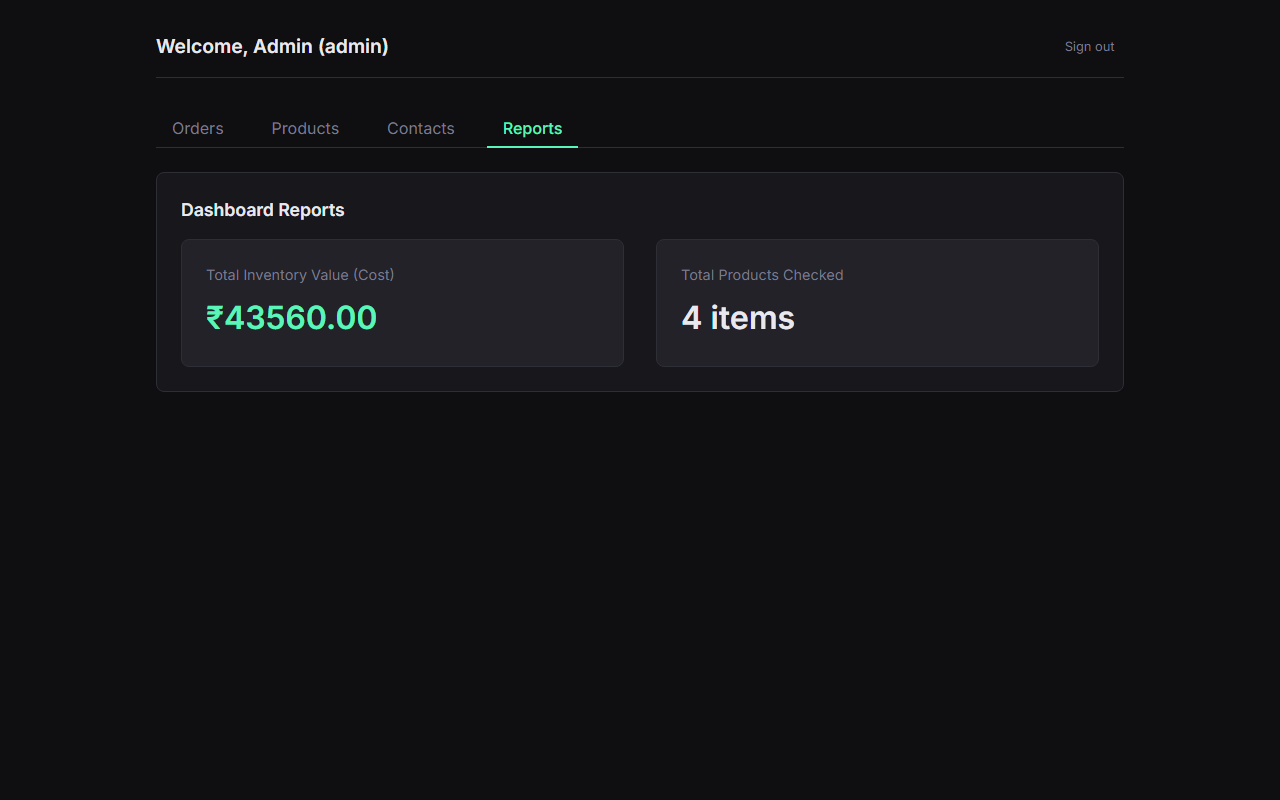
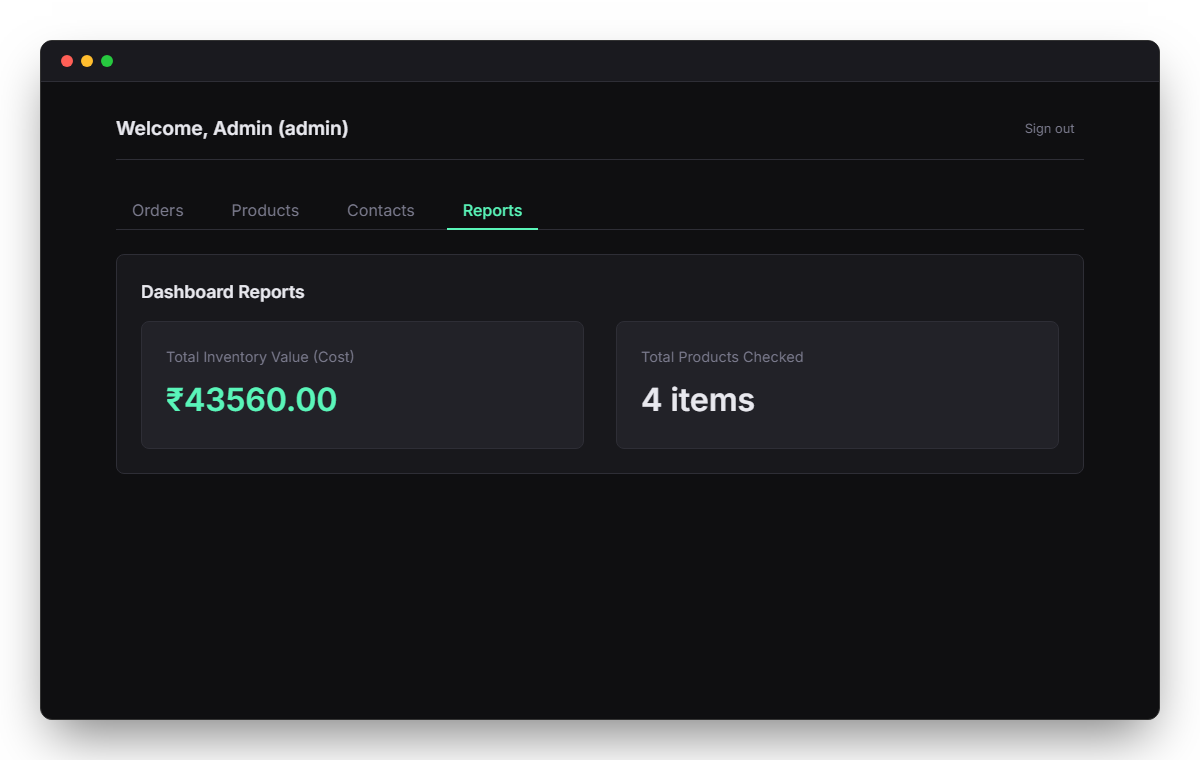
Add macOS window style to screenshots

diff --git a/capture_screenshots.py b/capture_screenshots.py
@@ -1,68 +1,132 @@
 import os
 from playwright.sync_api import sync_playwright
 
+inject_mac_ui = """() => {
+    // Create outer container to capture the shadow
+    const captureArea = document.createElement('div');
+    captureArea.id = 'mac-capture-area';
+    captureArea.style.padding = '40px';
+    captureArea.style.background = 'transparent';
+    captureArea.style.width = '1200px';
+    captureArea.style.height = '760px';
+    captureArea.style.boxSizing = 'border-box';
+
+    // Create the macOS window
+    const macWindow = document.createElement('div');
+    macWindow.style.borderRadius = '12px';
+    macWindow.style.overflow = 'hidden';
+    macWindow.style.boxShadow = '0 25px 50px -12px rgba(0,0,0,0.5)';
+    macWindow.style.border = '1px solid #333';
+    macWindow.style.backgroundColor = '#0f0f11'; // Match app bg
+    macWindow.style.width = '100%';
+    macWindow.style.height = '100%';
+    macWindow.style.display = 'flex';
+    macWindow.style.flexDirection = 'column';
+
+    // Create title bar
+    const titlebar = document.createElement('div');
+    titlebar.style.display = 'flex';
+    titlebar.style.alignItems = 'center';
+    titlebar.style.padding = '14px 20px';
+    titlebar.style.background = '#1a1a1f';
+    titlebar.style.borderBottom = '1px solid #2e2e36';
+    
+    titlebar.innerHTML = `
+      <div style="width: 12px; height: 12px; border-radius: 50%; background: #ff5f56; margin-right: 8px;"></div>
+      <div style="width: 12px; height: 12px; border-radius: 50%; background: #ffbd2e; margin-right: 8px;"></div>
+      <div style="width: 12px; height: 12px; border-radius: 50%; background: #27c93f;"></div>
+    `;
+
+    macWindow.appendChild(titlebar);
+
+    const app = document.getElementById('app');
+    
+    const appContainer = document.createElement('div');
+    appContainer.style.flex = '1';
+    appContainer.style.overflow = 'auto';
+    appContainer.style.position = 'relative';
+
+    app.parentNode.insertBefore(captureArea, app);
+    appContainer.appendChild(app);
+    macWindow.appendChild(appContainer);
+    captureArea.appendChild(macWindow);
+    
+    document.body.style.background = 'transparent';
+}
+"""
+
 def main():
     assets_dir = os.path.join(os.path.dirname(__file__), 'assets')
     os.makedirs(assets_dir, exist_ok=True)
 
     with sync_playwright() as p:
-        # Launch browser
         browser = p.chromium.launch(headless=True)
         context = browser.new_context(viewport={'width': 1280, 'height': 800})
         page = context.new_page()
 
-        # Login page screenshot
         print("Navigating to login page...")
         page.goto('http://localhost:5173/')
         page.wait_for_timeout(500)
-        print("Capturing login_page.png...")
-        page.screenshot(path=os.path.join(assets_dir, 'login_page.png'))
+        
+        # Inject the Mac UI
+        print("Injecting Mac UI...")
+        page.evaluate(inject_mac_ui)
+        wrapper = page.locator('#mac-capture-area')
 
-        # Login as Admin
+        print("Capturing login_page.png...")
+        wrapper.screenshot(path=os.path.join(assets_dir, 'login_page.png'), omit_background=True)
+
         print("Logging in as Admin...")
         page.fill('input[type="email"]', 'admin@example.com')
         page.fill('input[type="password"]', 'password123')
         page.click('button[type="submit"]')
 
-        # Wait for navigation to orders
         print("Waiting for /orders...")
         page.wait_for_url('**/orders')
         page.wait_for_timeout(1000)
         print("Capturing admin_orders.png...")
-        page.screenshot(path=os.path.join(assets_dir, 'admin_orders.png'))
+        wrapper.screenshot(path=os.path.join(assets_dir, 'admin_orders.png'), omit_background=True)
 
-        # Navigate to Products
         print("Navigating to Products...")
         page.click('text=Products')
         page.wait_for_url('**/products')
         page.wait_for_timeout(1000)
         print("Capturing admin_products.png...")
-        page.screenshot(path=os.path.join(assets_dir, 'admin_products.png'))
+        wrapper.screenshot(path=os.path.join(assets_dir, 'admin_products.png'), omit_background=True)
 
         # Capture Github social preview (1600x800)
         print("Capturing github-social-preview.png...")
-        page.set_viewport_size({"width": 1600, "height": 800})
+        page.set_viewport_size({"width": 1650, "height": 850})
+        page.evaluate('''() => {
+            const el = document.getElementById('mac-capture-area');
+            el.style.width = '1600px';
+            el.style.height = '800px';
+        }''')
         page.wait_for_timeout(500)
-        page.screenshot(path=os.path.join(assets_dir, 'github-social-preview.png'))
+        wrapper.screenshot(path=os.path.join(assets_dir, 'github-social-preview.png'), omit_background=True)
+        
+        # Restore size
+        page.evaluate('''() => {
+            const el = document.getElementById('mac-capture-area');
+            el.style.width = '1200px';
+            el.style.height = '760px';
+        }''')
         page.set_viewport_size({"width": 1280, "height": 800})
 
-        # Navigate to Contacts
         print("Navigating to Contacts...")
         page.click('text=Contacts')
         page.wait_for_url('**/contacts')
         page.wait_for_timeout(1000)
         print("Capturing admin_contacts.png...")
-        page.screenshot(path=os.path.join(assets_dir, 'admin_contacts.png'))
+        wrapper.screenshot(path=os.path.join(assets_dir, 'admin_contacts.png'), omit_background=True)
 
-        # Navigate to Reports
         print("Navigating to Reports...")
         page.click('text=Reports')
         page.wait_for_url('**/reports')
         page.wait_for_timeout(1000)
         print("Capturing admin_reports.png...")
-        page.screenshot(path=os.path.join(assets_dir, 'admin_reports.png'))
+        wrapper.screenshot(path=os.path.join(assets_dir, 'admin_reports.png'), omit_background=True)
 
-        # Logout and login as Manager
         print("Logging out...")
         page.click('text=Sign out')
         page.wait_for_url('**/')
@@ -72,11 +136,10 @@ def main():
         page.fill('input[type="password"]', 'password123')
         page.click('button[type="submit"]')
 
-        # Wait for manager dashboard
         page.wait_for_url('**/orders')
         page.wait_for_timeout(1000)
         print("Capturing manager_orders.png...")
-        page.screenshot(path=os.path.join(assets_dir, 'manager_orders.png'))
+        wrapper.screenshot(path=os.path.join(assets_dir, 'manager_orders.png'), omit_background=True)
 
         print("Done capturing screenshots.")
         browser.close()

diff --git a/README.md b/README.md
@@ -1,7 +1,7 @@
 # Inventory Management System
 
 <p align="center">
-  <img src="assets/admin_products.png" alt="Inventory Management System" width="100%" style="border: 1px solid rgba(128, 128, 128, 0.3); border-radius: 6px;" />
+  <img src="assets/admin_products.png" alt="Inventory Management System" width="100%" />
 </p>
 
 A role-based web application for tracking stock, recording orders, and managing supplier and customer contacts.
@@ -106,19 +106,19 @@ Runs on `http://localhost:5173`.
 ## Screenshots
 
 Path: `/` — Login page
-<img src="assets/login_page.png" alt="Login page" width="100%" style="border: 1px solid rgba(128, 128, 128, 0.3); border-radius: 6px;" />
+<img src="assets/login_page.png" alt="Login page" width="100%" />
 
 Path: `/orders` — Admin Orders
-<img src="assets/admin_orders.png" alt="Admin Orders" width="100%" style="border: 1px solid rgba(128, 128, 128, 0.3); border-radius: 6px;" />
+<img src="assets/admin_orders.png" alt="Admin Orders" width="100%" />
 
 Path: `/products` — Admin Products
-<img src="assets/admin_products.png" alt="Admin Products" width="100%" style="border: 1px solid rgba(128, 128, 128, 0.3); border-radius: 6px;" />
+<img src="assets/admin_products.png" alt="Admin Products" width="100%" />
 
 Path: `/contacts` — Admin Contacts
-<img src="assets/admin_contacts.png" alt="Admin Contacts" width="100%" style="border: 1px solid rgba(128, 128, 128, 0.3); border-radius: 6px;" />
+<img src="assets/admin_contacts.png" alt="Admin Contacts" width="100%" />
 
 Path: `/reports` — Admin Reports
-<img src="assets/admin_reports.png" alt="Admin Reports" width="100%" style="border: 1px solid rgba(128, 128, 128, 0.3); border-radius: 6px;" />
+<img src="assets/admin_reports.png" alt="Admin Reports" width="100%" />
 
 Path: `/orders` — Manager Orders
-<img src="assets/manager_orders.png" alt="Manager Orders" width="100%" style="border: 1px solid rgba(128, 128, 128, 0.3); border-radius: 6px;" />
+<img src="assets/manager_orders.png" alt="Manager Orders" width="100%" />
